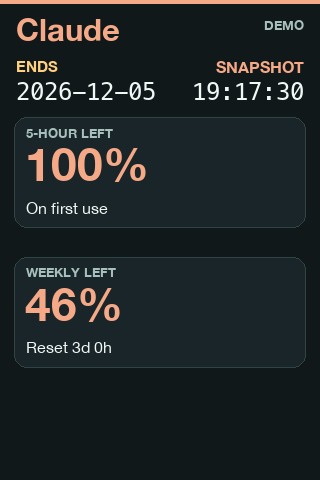
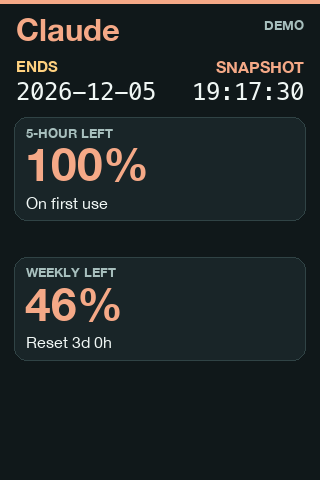
Add status alerts and fix same-day Claude quota resets

diff --git a/dashboard.py b/dashboard.py
@@ -13,6 +13,7 @@ from pathlib import Path
 from PIL import Image, ImageDraw, ImageFont
 
 from claude_usage import ClaudeUsage, read_usage
+from monitor_status import Reachability
 from preferences import Preferences, Subscription, read_preferences
 from turzx import HEIGHT, WIDTH, Display
 from usage import CodexServer, UsageError, Window, find_codex, quota_windows
@@ -129,6 +130,8 @@ def quota_expired(window, now):
 
 
 def session_not_started(window):
+    if window.idle is not None:
+        return window.idle
     return window.reset_at is None and window.minutes == 300 and window.used == 0
 
 
@@ -138,13 +141,13 @@ def quota_card(draw, box, window, now, accent):
     label(draw, (left + 12, top + 11), f"{window_name(window.minutes)} LEFT", 13, MUTED, "bold")
     if quota_expired(window, now):
         label(draw, (left + 11, top + 33), "–", 46, MUTED, "bold")
-        label(draw, (left + 12, top + 85), "Awaiting update", 16, MUTED)
+        label(draw, (left + 12, top + 80), "Awaiting update", 16, MUTED)
         return
 
     remaining, color = allowance(window, accent)
     label(draw, (left + 11, top + 31), f"{remaining}%", 46, color, "bold")
     reset = "On first use" if session_not_started(window) else reset_label(window.reset_at, now)
-    label(draw, (left + 12, top + 85), reset, 16, TEXT)
+    label(draw, (left + 12, top + 80), reset, 16, TEXT)
 
 
 def subscription_label(subscription, now):
@@ -175,7 +178,7 @@ def provider_section(draw, top, title, accent, status, stamp, subscription, wind
 
     card_top = top + 99
     if not windows:
-        panel(draw, card_top, 111)
+        panel(draw, card_top, 104)
         label(draw, (27, card_top + 45), empty, 18)
         return
 
@@ -186,17 +189,61 @@ def provider_section(draw, top, title, accent, status, stamp, subscription, wind
     else:
         spans = ((14, 155, card_top), (165, 305, card_top))
     for window, (left, right, y) in zip(windows, spans):
-        quota_card(draw, (left, y, right, y + 110), window, now, accent)
+        quota_card(draw, (left, y, right, y + 103), window, now, accent)
 
 
-def render_dashboard(snapshot, claude, now, preferences, demo=False):
+def status_messages(snapshot, claude, now, mode, unreachable):
+    messages = []
+    if mode != "claude" and snapshot.failed:
+        messages.append("ChatGPT sync unavailable")
+    if mode != "chatgpt":
+        status, _ = claude_status(claude, now)
+        if status == "WAITING":
+            messages.append("Claude usage not connected")
+        elif status in {"STALE", "CACHED"}:
+            messages.append("Claude sync delayed")
+        elif status == "UPDATE DUE":
+            messages.append("Claude quota reset · awaiting data")
+        elif claude.source == "desktop" and now - claude.received_at > timedelta(minutes=15):
+            messages.append("Claude snapshot needs refresh")
+        elif any(window.reset_at is None and not session_not_started(window) for window in claude.windows):
+            messages.append("Claude reset time unavailable")
+
+    providers = (
+        ("ChatGPT", snapshot.windows if mode != "claude" and not snapshot.failed else ()),
+        ("Claude", claude.windows if claude and mode != "chatgpt" else ()),
+    )
+    for name, windows in providers:
+        remaining = min((max(0, 100 - window.used) for window in windows or ()
+                         if not quota_expired(window, now)), default=100)
+        if remaining <= 10:
+            messages.append(f"{name} {remaining}% left")
+    messages.extend(f"{name} unreachable" for name in unreachable)
+    return messages
+
+
+def status_strip(draw, messages):
+    if not messages:
+        return
+    draw.rounded_rectangle((14, 450, 305, 473), radius=7, fill=PANEL, outline=BORDER)
+    draw.ellipse((23, 459, 28, 464), fill=AMBER)
+    for count in range(len(messages), 0, -1):
+        text = "  ·  ".join(messages[:count])
+        if count < len(messages):
+            text += f"  +{len(messages) - count}"
+        if font(13, "bold").getlength(text) <= 265:
+            label(draw, (35, 456), text, 13, AMBER, "bold")
+            break
+
+
+def render_dashboard(snapshot, claude, now, preferences, demo=False, *, unreachable=()):
     mode = preferences.mode
     image = Image.new("RGB", (WIDTH, HEIGHT), BG)
     draw = ImageDraw.Draw(image)
     draw.rectangle((0, 0, WIDTH - 1, 3), fill=CLAUDE if mode == "claude" else TEAL)
     if mode == "combined":
         draw.rectangle((160, 0, WIDTH - 1, 3), fill=CLAUDE)
-        draw.line((15, 240, 305, 240), fill=BORDER)
+        draw.line((15, 229, 305, 229), fill=BORDER)
     if demo:
         label(draw, (304, 20), "DEMO", 13, MUTED, "bold", "rt")
 
@@ -206,11 +253,12 @@ def render_dashboard(snapshot, claude, now, preferences, demo=False):
                          preferences.chatgpt_subscription, snapshot.windows, now,
                          empty=empty, stacked=mode == "chatgpt")
     if mode != "chatgpt":
-        top = 257 if mode == "combined" else 18
+        top = 241 if mode == "combined" else 18
         provider_section(draw, top, "Claude", CLAUDE, claude_status(claude, now),
                          claude.received_at if claude else None, preferences.claude_subscription,
                          claude.windows if claude else None, now, empty="Import Claude App usage",
                          stacked=mode == "claude")
+    status_strip(draw, status_messages(snapshot, claude, now, mode, unreachable))
     return image
 
 
@@ -226,7 +274,8 @@ def demo_image(path, mode):
     ), now)
     prefs = Preferences(mode=mode, chatgpt_subscription=Subscription("renews", "2026-12-16"),
                         claude_subscription=Subscription("ends", "2026-12-05"))
-    render_dashboard(snapshot, claude, now, prefs, demo=True).save(path)
+    render_dashboard(snapshot, claude, now, prefs, demo=True,
+                     unreachable=("Pi",) if mode == "combined" else ()).save(path)
 
 
 def main():
@@ -257,6 +306,7 @@ def main():
     server = CodexServer(executable)
     screen = Display(args.port)
     snapshot = Snapshot()
+    reachability = Reachability()
     last_poll = None
     last_claude_snapshot = None
     preferences = read_preferences()
@@ -292,7 +342,8 @@ def main():
 
             now = datetime.now().astimezone()
             claude = read_usage() if mode != "chatgpt" else None
-            frame = render_dashboard(snapshot, claude, now, preferences)
+            reachability.refresh(preferences)
+            frame = render_dashboard(snapshot, claude, now, preferences, unreachable=reachability.unreachable)
             try:
                 screen.show(frame, brightness=preferences.brightness)
             except OSError as error:

diff --git a/tests/test_monitor_status.py b/tests/test_monitor_status.py
@@ -1,0 +1,42 @@
+import unittest
+from datetime import datetime, timedelta
+from unittest.mock import patch
+
+from claude_usage import ClaudeUsage
+from dashboard import Snapshot, status_messages
+from monitor_status import Reachability
+from preferences import Preferences
+from usage import Window
+
+
+class MonitorStatusTests(unittest.TestCase):
+    def test_requires_two_consecutive_failed_checks_and_clears_on_recovery(self):
+        monitor = Reachability()
+        preferences = Preferences(nous_core_port=8080)
+        with patch("monitor_status.time.monotonic", side_effect=(0, 15, 30, 60)), \
+             patch("monitor_status.reachable", side_effect=(False, False, True)) as probe:
+            monitor.refresh(preferences)
+            self.assertEqual(monitor.unreachable, ())
+            monitor.refresh(preferences)
+            self.assertEqual(probe.call_count, 1)
+            monitor.refresh(preferences)
+            self.assertEqual(monitor.unreachable, ("Nous Core",))
+            monitor.refresh(preferences)
+            self.assertEqual(monitor.unreachable, ())
+
+    def test_status_indicates_delay_low_quota_and_service_failure(self):
+        now = datetime.fromisoformat("2026-11-17T07:00:00+08:00")
+        reset = int((now + timedelta(hours=2)).timestamp())
+        chatgpt = Snapshot((Window(93, 300, reset),), now)
+        claude = ClaudeUsage(now - timedelta(minutes=4), (Window(38, 10080, reset),), "web")
+        self.assertEqual(status_messages(chatgpt, claude, now, "combined", ("Pi",)), [
+            "Claude sync delayed", "ChatGPT 7% left", "Pi unreachable",
+        ])
+
+    def test_idle_session_is_healthy_but_unknown_reset_is_reported(self):
+        now = datetime.fromisoformat("2026-11-17T07:00:00+08:00")
+        idle = ClaudeUsage(now, (Window(0, 300, None, True),), "web")
+        unknown = ClaudeUsage(now, (Window(0, 300, None, False),), "web")
+        self.assertEqual(status_messages(Snapshot(), idle, now, "claude", ()), [])
+        self.assertEqual(status_messages(Snapshot(), unknown, now, "claude", ()),
+                         ["Claude reset time unavailable"])

diff --git a/preferences.py b/preferences.py
@@ -3,6 +3,7 @@
 import json
 from dataclasses import asdict, dataclass, replace
 from datetime import date
+from ipaddress import ip_address
 from pathlib import Path
 from tempfile import NamedTemporaryFile
 
@@ -33,6 +34,8 @@ class Preferences:
     blank_on_stop: bool = False
     chatgpt_subscription: Subscription | None = None
     claude_subscription: Subscription | None = None
+    nous_core_port: int | None = None
+    pi_host: str | None = None
 
 
 def read_preferences(path=PREFERENCES):
@@ -55,7 +58,29 @@ def read_preferences(path=PREFERENCES):
                 values[field] = subscription(entry.get("event"), entry.get("date"))
             except ValueError:
                 pass
+    try:
+        values.update(monitor_values(raw.get("nous_core_port"), raw.get("pi_host")))
+    except ValueError:
+        pass
     return Preferences(**values)
+
+
+def monitor_values(nous_port, pi_host):
+    if nous_port is not None and (type(nous_port) is not int or not 1 <= nous_port <= 65535):
+        raise ValueError("Use a valid localhost port for Nous Core")
+    if pi_host is not None:
+        if not isinstance(pi_host, str):
+            raise ValueError("Use a local IP address for the Pi")
+        address = ip_address(pi_host)
+        if not (address.is_private and not address.is_loopback and not address.is_unspecified):
+            raise ValueError("Use a local network IP address for the Pi")
+        pi_host = str(address)
+    return {"nous_core_port": nous_port, "pi_host": pi_host}
+
+
+def set_monitors(nous_port, pi_host, path=PREFERENCES):
+    updated = replace(read_preferences(path), **monitor_values(nous_port, pi_host))
+    save_preferences(updated, path)
 
 
 def set_preference(key, value, path=PREFERENCES):

diff --git a/service.py b/service.py
@@ -12,7 +12,7 @@ from pathlib import Path
 
 from claude_usage import write_usage
 from preferences import (CHOICES, SUBSCRIPTION_EVENTS, SUBSCRIPTION_FIELDS, read_preferences,
-                         set_preference, set_subscription)
+                         set_monitors, set_preference, set_subscription)
 from usage import find_codex
 
 LABEL = "com.pcpcchen.35inchsmartscreen"
@@ -55,13 +55,15 @@ def main():
     parser = argparse.ArgumentParser(description=__doc__)
     parser.add_argument("action", choices=(
         "install", "status", "uninstall", "menu-status", "set", "refresh", "import-claude",
-        "subscription",
+        "subscription", "monitors",
     ))
     parser.add_argument("--dashboard-root", type=Path, default=ROOT)
     parser.add_argument("--dashboard-python", default=sys.executable)
     parser.add_argument("--provider", choices=SUBSCRIPTION_FIELDS)
     parser.add_argument("--event", choices=(*SUBSCRIPTION_EVENTS, "clear"))
     parser.add_argument("--date")
+    parser.add_argument("--nous-port", type=int)
+    parser.add_argument("--pi-host")
     parser.add_argument("setting", nargs="?", choices=CHOICES)
     parser.add_argument("value", nargs="?")
     args = parser.parse_args()
@@ -74,6 +76,12 @@ def main():
             parser.error("set requires a setting and value")
         try:
             set_preference(args.setting, args.value)
+        except ValueError as error:
+            parser.error(str(error))
+        return 0
+    if args.action == "monitors":
+        try:
+            set_monitors(args.nous_port, args.pi_host)
         except ValueError as error:
             parser.error(str(error))
         return 0

diff --git a/monitor_status.py b/monitor_status.py
@@ -1,0 +1,44 @@
+"""Track reachability of the optional local Nous and Pi services."""
+
+import socket
+import time
+
+CHECK_SECONDS = 30
+TIMEOUT_SECONDS = 0.6
+
+
+def reachable(host, port):
+    try:
+        with socket.create_connection((host, port), timeout=TIMEOUT_SECONDS):
+            return True
+    except OSError:
+        return False
+
+
+class Reachability:
+    def __init__(self):
+        self.targets = {}
+        self.failures = {}
+        self.next_check = 0
+
+    def refresh(self, preferences):
+        targets = {}
+        if preferences.nous_core_port is not None:
+            targets["Nous Core"] = ("127.0.0.1", preferences.nous_core_port)
+        if preferences.pi_host is not None:
+            targets["Pi"] = (preferences.pi_host, 22)
+        now = time.monotonic()
+        if targets == self.targets and now < self.next_check:
+            return
+
+        self.failures = {
+            name: 0 if reachable(*address) else
+            1 + (self.failures.get(name, 0) if self.targets.get(name) == address else 0)
+            for name, address in targets.items()
+        }
+        self.targets = targets
+        self.next_check = now + CHECK_SECONDS
+
+    @property
+    def unreachable(self):
+        return tuple(name for name, count in self.failures.items() if count >= 2)

diff --git a/claude_usage.py b/claude_usage.py
@@ -37,6 +37,9 @@ def parse_limits(payload, *, allow_missing_reset=False):
             if type(reset) is not int or reset <= 0:
                 continue
         valid[name] = {"used_percentage": used, "resets_at": reset}
+        idle = window.get("idle")
+        if name == "five_hour" and used == 0 and reset is None and type(idle) is bool:
+            valid[name]["idle"] = idle
     return valid
 
 
@@ -69,7 +72,7 @@ def read_usage(path=CACHE):
             return None
         received_at = datetime.fromtimestamp(payload["received_at"]).astimezone()
         windows = tuple(
-            Window(round(window["used_percentage"]), PERIODS[name], window["resets_at"])
+            Window(round(window["used_percentage"]), PERIODS[name], window["resets_at"], window.get("idle"))
             for name, window in limits.items()
         )
         return ClaudeUsage(received_at, windows, source)

diff --git a/usage.py b/usage.py
@@ -22,6 +22,7 @@ class Window:
     used: int
     minutes: int | None
     reset_at: int | None
+    idle: bool | None = None
 
 
 class CodexServer:
